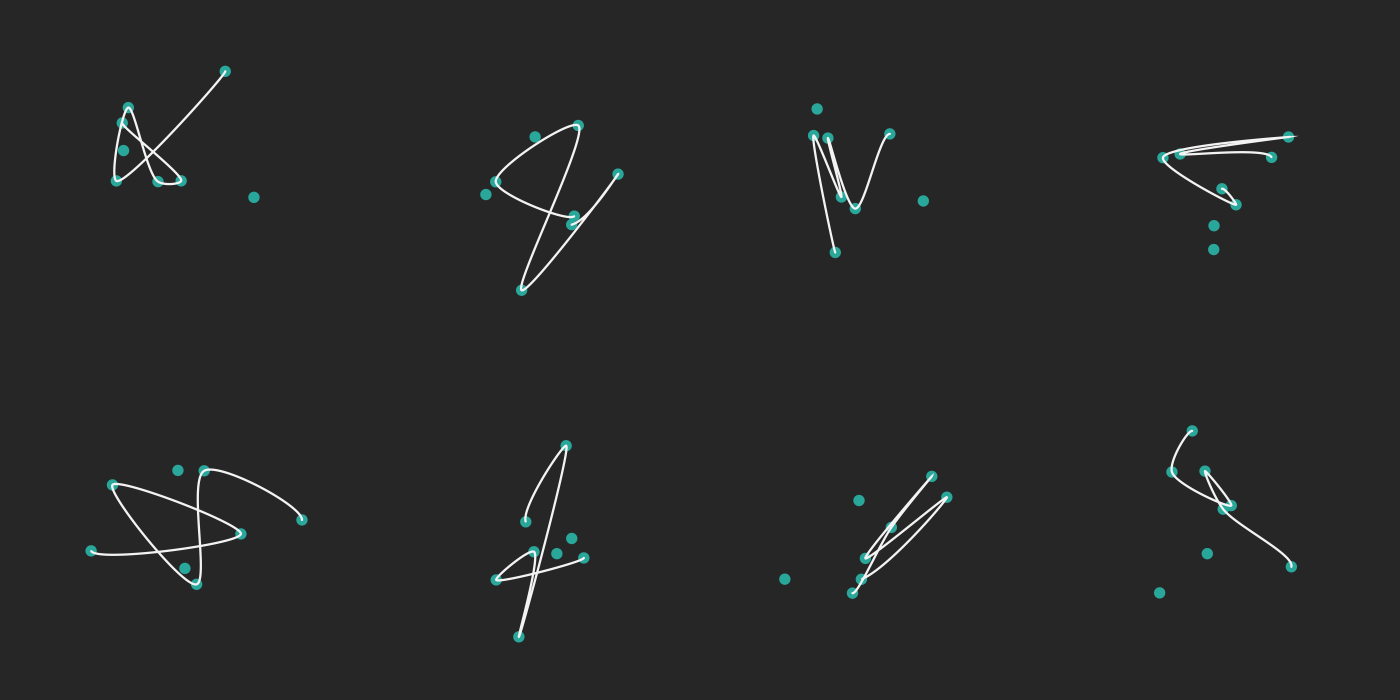
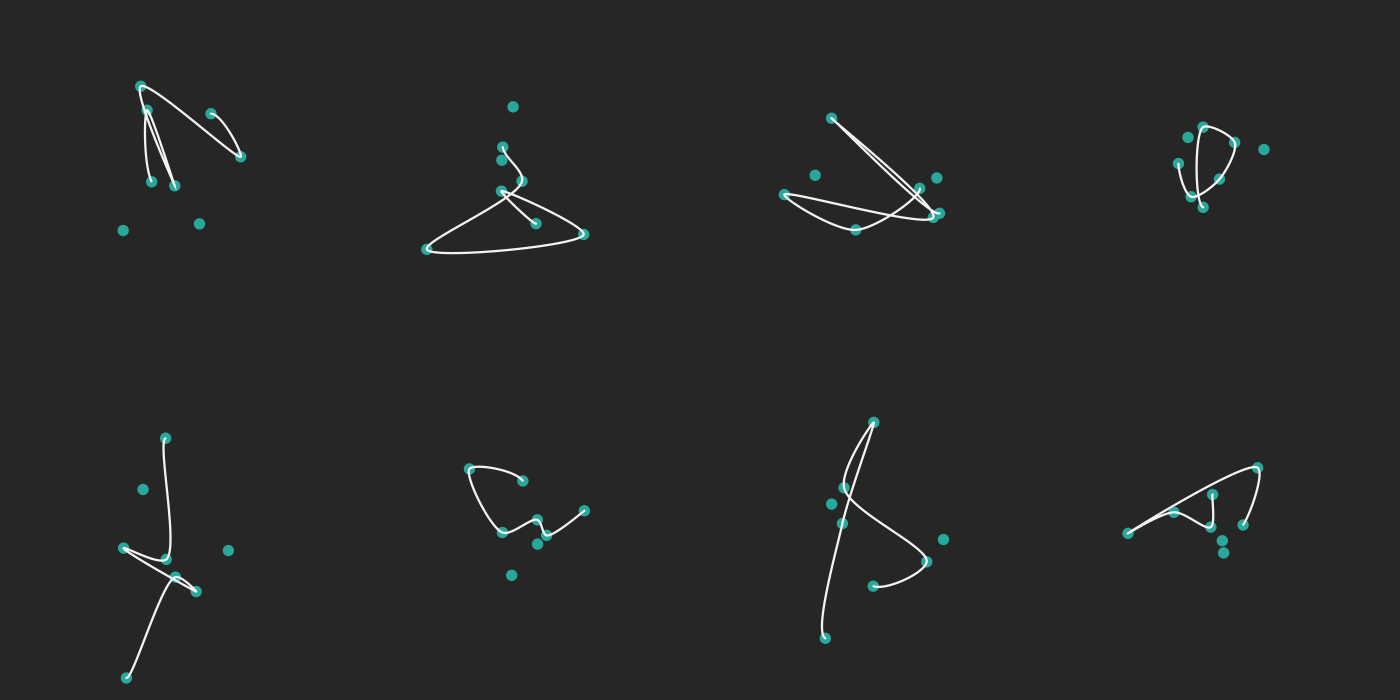
better cover

diff --git a/README.md b/README.md
@@ -21,6 +21,6 @@ target/release/main ALPHA TENSION N_POINTS SEED WIDTH HEIGHT TILE_SIZE FILENAME
   HEIGHT    : int    [1,2^16 - 1]
   TILE_SIZE : int    [1,2^16 - 1]
   FILENAME  : string
-[nix-shell:path/to/ruspline/dev]$ nightrun 0.5 0.1 8 10 4 2 350 out/main.png
+[nix-shell:path/to/ruspline/dev]$ nightrun 0.5 0.1 8 0 4 2 350 out/main.png
 [nix-shell:path/to/ruspline/dev]$ open out/main.png
 ```
